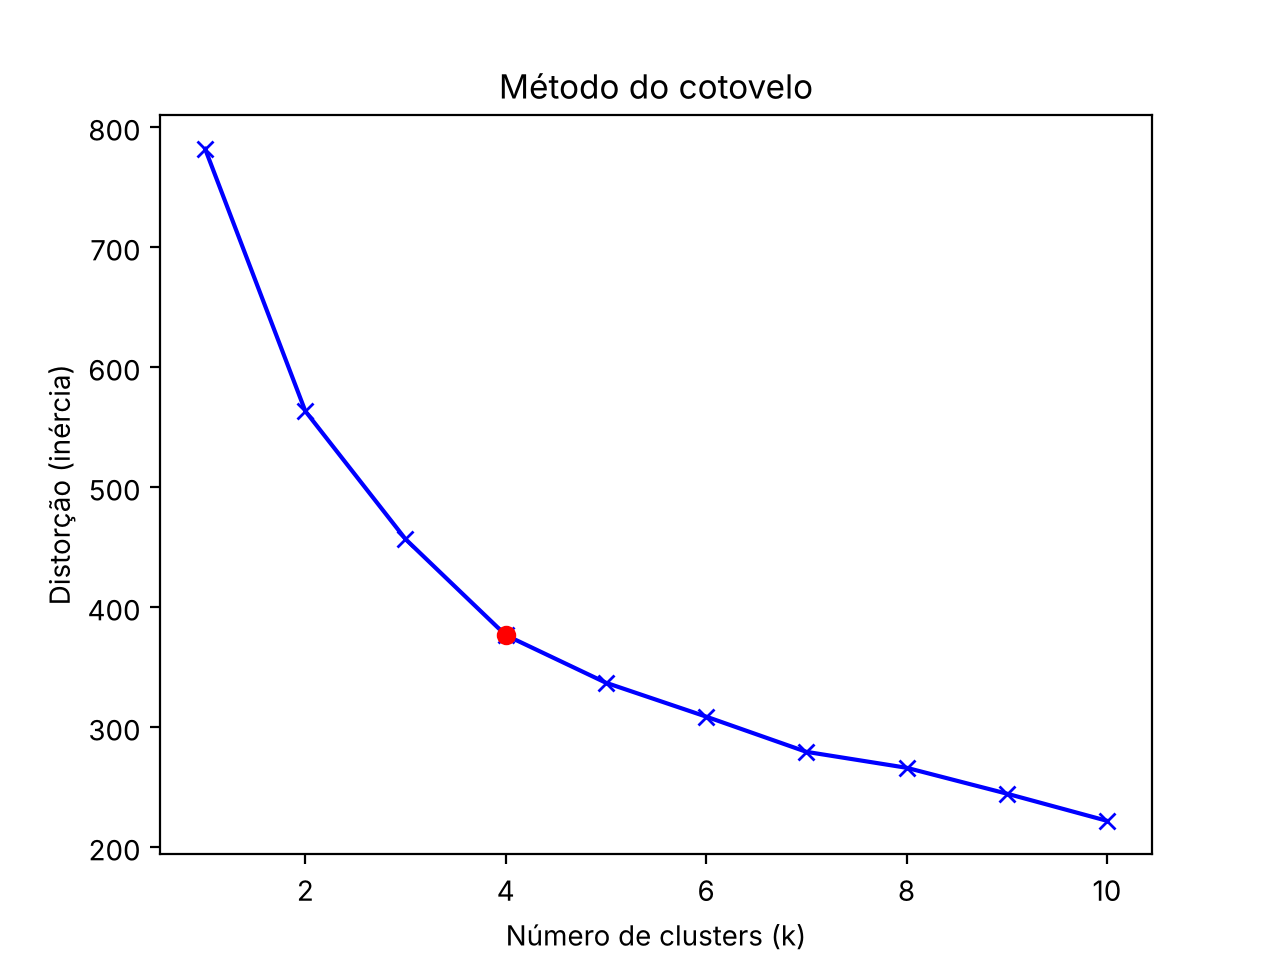
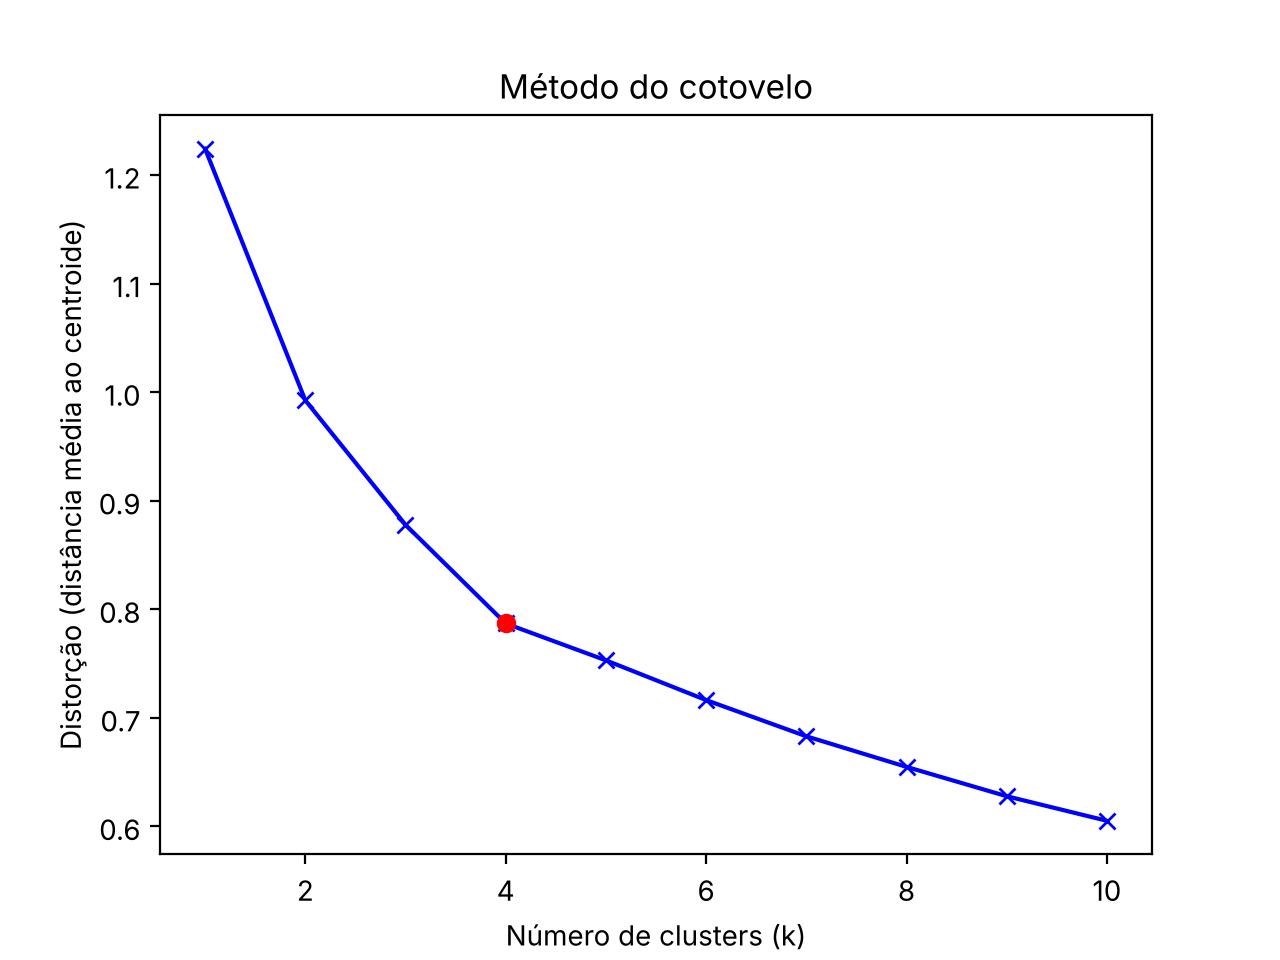
Cotovelo por distância média, entrada via teclado e ajustes na exibição do centroide

diff --git a/housing_clusterizador.py b/housing_clusterizador.py
@@ -5,6 +5,7 @@ matplotlib.use('Agg')
 import matplotlib.pyplot as plt
 from sklearn.preprocessing import MinMaxScaler
 from sklearn.cluster import KMeans #Algoritmo de clusterização
+from scipy.spatial.distance import cdist #Cálculo das distâncias até os centroides
 from pickle import dump
 
 #1 CARREGAR OS DADOS
@@ -14,6 +15,8 @@ dados = pd.read_csv('HousingData.csv', sep=',')
 #CHAS: 1 se o terreno margeia o rio Charles, 0 caso contrário
 #RAD: índice de acessibilidade a rodovias radiais (código, não é uma medida)
 colunas_categoricas = ['CHAS', 'RAD']
+#MEDV (valor mediano do imóvel) é mantido como atributo: o preço é uma característica
+#relevante da residência e ajuda a interpretar os grupos (ex.: grupo de imóveis caros/baratos)
 colunas_numericas = dados.drop(columns=colunas_categoricas).columns
 
 #2 TRATAR OS DADOS FALTANTES (NA)
@@ -45,12 +48,14 @@ dump(list(dados_categoricos_normalizados.columns), open('colunas_categoricas_hou
 dados_normalizados = dados_numericos_normalizados.join(dados_categoricos_normalizados)
 
 #4 DETERMINAR O NÚMERO ÓTIMO DE GRUPOS (MÉTODO DO COTOVELO)
-#4.1 Calcular a distorção (inércia) para cada quantidade de clusters
+#4.1 Calcular a distorção para cada quantidade de clusters
+#Distorção = média das distâncias euclidianas de cada residência até o centroide mais próximo
 distorcoes = []
 K = range(1, 11)
 for k in K:
     kmeans = KMeans(n_clusters=k, random_state=42, n_init=10).fit(dados_normalizados)
-    distorcoes.append(kmeans.inertia_)
+    distancias_centroides = cdist(dados_normalizados, kmeans.cluster_centers_, 'euclidean')
+    distorcoes.append(sum(np.min(distancias_centroides, axis=1)) / dados_normalizados.shape[0])
 
 #4.2 Calcular a distância de cada ponto da curva até a reta que liga o primeiro e o último ponto
 #O ponto mais distante da reta é o "cotovelo"
@@ -70,7 +75,7 @@ print('Número ótimo de clusters:', numero_otimo_clusters)
 plt.plot(K, distorcoes, 'bx-')
 plt.plot(numero_otimo_clusters, distorcoes[numero_otimo_clusters - 1], 'ro')
 plt.xlabel('Número de clusters (k)')
-plt.ylabel('Distorção (inércia)')
+plt.ylabel('Distorção (distância média ao centroide)')
 plt.title('Método do cotovelo')
 plt.savefig('cotovelo.png')
 

diff --git a/housing_inferencia.py b/housing_inferencia.py
@@ -5,12 +5,20 @@ from pickle import load
 
 colunas_categoricas = ['CHAS', 'RAD']
 
-#1 DADOS DA NOVA RESIDÊNCIA
-nova_residencia = {
+#1 RECEBER OS DADOS DA NOVA RESIDÊNCIA
+#Valores de exemplo usados quando o usuário apenas pressiona Enter
+exemplo = {
     'CRIM': 0.05, 'ZN': 20, 'INDUS': 4.5, 'CHAS': 0, 'NOX': 0.45,
     'RM': 6.8, 'AGE': 40, 'DIS': 5.5, 'RAD': 4, 'TAX': 300,
     'PTRATIO': 17.0, 'B': 390, 'LSTAT': 6.0, 'MEDV': 28.0
 }
+print('Informe os dados da nova residência (Enter usa o valor de exemplo):')
+nova_residencia = {}
+for atributo, valor_padrao in exemplo.items():
+    valor = input(f'{atributo} [{valor_padrao}]: ').strip().replace(',', '.')
+    nova_residencia[atributo] = float(valor) if valor else valor_padrao
+for coluna in colunas_categoricas:
+    nova_residencia[coluna] = int(nova_residencia[coluna])
 nova_residencia = pd.DataFrame([nova_residencia])
 
 #2 NORMALIZAR A NOVA RESIDÊNCIA
@@ -49,4 +57,9 @@ for coluna in colunas_categoricas:
 #Reordenar as colunas na ordem original da base
 centroide_desnormalizado = centroide_desnormalizado[nova_residencia.columns]
 print('Centroide do grupo', grupo, '(desnormalizado):')
-print(centroide_desnormalizado.round(4).T.to_string(header=False))
+for coluna in centroide_desnormalizado.columns:
+    valor = centroide_desnormalizado[coluna][0]
+    if coluna in colunas_categoricas:
+        print(f'{coluna:8} {int(valor)}')
+    else:
+        print(f'{coluna:8} {round(valor, 4) + 0.0:.4f}')

diff --git a/README.md b/README.md
@@ -4,8 +4,8 @@ Avaliação do 2º bimestre — clusterizador KMeans treinado na base Boston Hou
 
 ## Arquivos
 
-- `housing_clusterizador.py` — módulo de treinamento: trata dados faltantes, normaliza (MinMax nos atributos quantitativos e one-hot nos categóricos `CHAS` e `RAD`), determina o número ótimo de grupos pelo método do cotovelo (maior distância até a reta entre o primeiro e o último ponto da curva), treina e salva o modelo.
-- `housing_inferencia.py` — módulo de inferência: recebe os dados de uma nova residência, normaliza, infere o grupo e exibe o centroide desnormalizado.
+- `housing_clusterizador.py` — módulo de treinamento: trata dados faltantes, normaliza (MinMax nos atributos quantitativos e one-hot nos categóricos `CHAS` e `RAD`), determina o número ótimo de grupos pelo método do cotovelo (distorção = distância euclidiana média até o centroide; o k escolhido é o ponto da curva mais distante da reta entre o primeiro e o último ponto), treina e salva o modelo.
+- `housing_inferencia.py` — módulo de inferência: recebe via teclado os dados de uma nova residência (Enter usa valores de exemplo), normaliza, infere o grupo e exibe o centroide desnormalizado.
 - `cotovelo.png` — gráfico do método do cotovelo.
 - `*.model` — normalizador, colunas categóricas e modelo KMeans salvos.
 
@@ -17,4 +17,4 @@ python housing_clusterizador.py
 python housing_inferencia.py
 ```
 
-Para testar outra residência, altere o dicionário `nova_residencia` em `housing_inferencia.py`.
+Na inferência, digite os valores de cada atributo ou pressione Enter para usar o exemplo.
